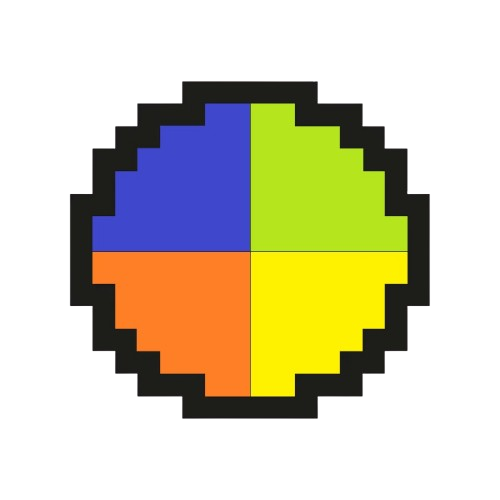
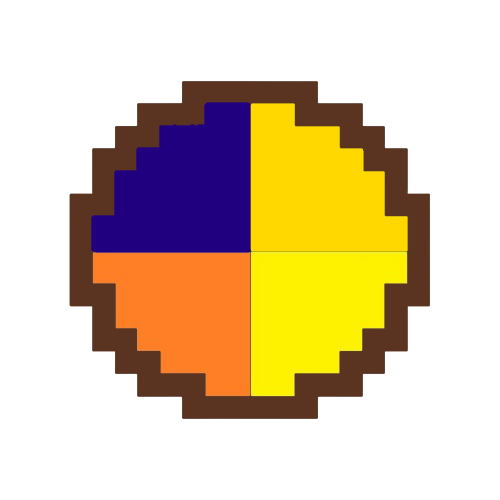
TODO: inv + "press [e]" kész: bevetés, megöntözés, shop megnyitás, alvás funkció meghívása(tbc.)

Changed region(s): [[0.12, 0.15, 0.87, 0.84]]

diff --git a/js files/main.js b/js files/main.js
@@ -2,7 +2,10 @@
 import {DrawGrid, DrawGridFirst, GridLista, canvas, ctx, DrawGridByCordsFirst} from './canvas.js';
 import {Player} from './player.js';
 import {Grid} from './grid.js';
+import {displayTime} from './tets copy.js';
 
+let hasSlept = false;
+let hasPressed = false;
 let character =  new Player(canvas.width / 2, canvas.height / 2, 35,35);
 let gridlist = GridLista();
 let basicGrids = [];
@@ -10,11 +13,23 @@ let keyState = {
     right: false,
     left: false,
     up: false,
-    down: false
+    down: false,
+    e: false
 };
+/// IDŐ, SHOP, ALVÁS, INVENTORY, COMMAND BAR
+
+
+
 /// Telik az idő
+/// minden új napnál van egy másodpercszámláló
+
+/// az elmentett új másodpercnyivel ugrik az óramutató oldal betöltésekor
+/// van egy összesmásodpercszámláló -> növényekhez
 
 window.onload = () => {
+    /// idő elindul ! de elmentett napnál kezdi (minden nap végén mentés) 
+    setInterval(displayTime, 1000);
+    setInterval(GridTime,1000);
     ///
     DrawGridFirst(10,2,50);
     DrawGridByCordsFirst(960,120,175);
@@ -35,6 +50,24 @@ window.onload = () => {
         if (e.key === 'ArrowDown' || e.key === 's') {
             keyState.down = true;
         }
+        
+    });
+    document.addEventListener('keydown', (s) => {
+        if (s.key === 'e'){
+            let selectedGrid = decideGrid();
+            if (selectedGrid != null){
+                if (selectedGrid.StartX === 960 && selectedGrid.StartY === 170){
+                    openShop();
+                }
+                else if(selectedGrid.StartX === 1075 && selectedGrid.StartY === 625){
+                    sleepAway(); 
+                }
+                else{
+                    let gridFarm = SetGridProperties(selectedGrid);
+                    gridlist.push(gridFarm);
+                }
+            }
+        }
     });
     document.addEventListener('keyup', (e) => {
         if (e.key === 'ArrowRight' || e.key === 'd') {
@@ -49,9 +82,18 @@ window.onload = () => {
         if (e.key === 'ArrowDown' || e.key === 's') {
             keyState.down = false;
         }
+
     });
     LoopEverything();
 };
+
+function GridTime(){
+    gridlist.forEach(grid => {
+        if (grid.virag != null){
+            grid.ido++;
+        }
+    });
+}
 
 function getCharactergrids(){
     const coveredGrids = [];
@@ -83,6 +125,7 @@ function getCharactergrids(){
 }
 
 function decideGrid(){
+    let grid = null;
     let coveredGrids = getCharactergrids();
 
     if (coveredGrids.length > 0){
@@ -99,6 +142,7 @@ function decideGrid(){
         for (let i = 0; i < gridlist.length; i++){
          if (gridlist[i].StartX == maxGrid.StartX && gridlist[i].StartY == maxGrid.StartY ){
                 gridlist[i].kivalasztott = true;
+                grid = gridlist[i];
          }
          else{
             gridlist[i].kivalasztott = false;
@@ -113,6 +157,28 @@ function decideGrid(){
            } 
     }
 
+    basicGrids.forEach(gridBasic => {
+        let overlayX = false;
+        let overlayY = false;
+
+        let bottomY = character.y+character.height;
+        if (character.y <= gridBasic.StartY && bottomY >= gridBasic.EndY ){
+            overlayY = true;
+        }
+        let lastX = character.x + character.width;
+        if (lastX >= gridBasic.StartX && character.x <= gridBasic.EndX){
+            overlayX = true;
+        }
+
+
+        if (overlayY && overlayX){
+            grid = gridBasic;
+
+        }
+       
+    });
+    
+    return grid;
 }
 
 function calculateSize(grid){
@@ -143,7 +209,7 @@ function DrawGridByGrid(){
     gridlist.forEach(grid => {
         if(grid.kivalasztott == true){
             ctx.lineWidth = 5;
-            ctx.strokeStyle = "#645606";
+            ctx.strokeStyle = "#9dd1e7";
         }
         DrawGrid(grid);
     });
@@ -171,90 +237,89 @@ function moveCharacter() {
 
 function openShop(){
     //// sütik elmentése !!
-
     window.open('shop.html');
 }
 
 function sleepAway(){
     // idő ugrik, annyit hogy reggelre egészüljön ki az eltelt másodpercek, óraugrik
     // napszámláló nől
-    console.log("sleeping...");
+    console.log("Sleeping");
 }
 
-function activeGrid(){
-    let pressed = false;
-    basicGrids.forEach(grid => {
-        let overlayX = false;
-        let overlayY = false;
-        
-        let bottomY = character.y+character.height;
-        if (character.y <= grid.StartY && bottomY >= grid.EndY ){
-            overlayY = true;
-        }
-        let lastX = character.x + character.width;
-        if (lastX >= grid.StartX && character.x <= grid.EndX){
-            overlayX = true;
-        }
-        
-        
-        if (overlayY && overlayX){
-            document.addEventListener('keydown', (e) =>
-            { 
-                if (grid.StartX == 1015 && grid.StartY == 170)
-                {
-                    if (e.key === 'e'){
-                        openShop();
-                    }
-                }
-                
-                
-            });
-          
-            document.addEventListener('keydown', (e) => {
-                if (grid.StartX == 1075 && grid.StartY == 625  && e.key === 'e'){
-                    pressed = true;
-                }
-            })
 
 
-//// TODO/!
-            console.log(pressed);
-            if (pressed == true){
-                sleepAway();
-            }
-            
-            
-        }
-    });
-}
+
 
 function drawCharacter() {
     ctx.fillStyle = 'red';
     ctx.fillRect(character.x,character.y,character.width,character.height);
 }
 
+function SetGridProperties(grid){
+    if (grid.bevetve == false){
+        grid.bevetve = true;
+        return grid;
+    }
+    else if(grid.ontozve === false){
+        grid.ontozve = true;
+        return grid;
+    }
+    else if(grid.virag == null){
+        // nyíljon meg az inv, clickel döntsön virágot, azt a virágot kapja a grid
+        grid.ido = 0;
+        return grid;
+    }
+    else if(grid.ido === grid.virag.ido){
+        grid.bevetve = false;
+        grid.virag = null;
+        grid.ontozve = false;
+        grid.ido = 0;
+        // coin += virag.ertek
+        return grid;
+    }
+}
+
+    
+    
 
 
 function LoopEverything(){
 
     /// canvas letörlése
-    ctx.clearRect(0,0,canvas.width,canvas.height);
 
+    ctx.clearRect(0,0,canvas.width,canvas.height);
     //// minden létező grid megrajzolása    -> ide kell majd mentés szerint megjeleníteni a növényeket(?)
     DrawGridByGrid();
     DrawGridByCordsFirst(960,120,175);
     DrawGridByCordsFirst(1075,575,50);
-
+    
     /// karakterre vonatkozó frissülő adatok
     moveCharacter();
     drawCharacter();
     
     //// aktív grid megkeresése, kijelölése
     decideGrid();
+    //// TODO: NE JELÖLJÖN KI TÖBBET EGYSZERRE
+
     /// shop megnyitás + alvás
-    activeGrid();
+    if (hasSlept == true){
+        sleepAway();
+        hasSlept = false;
+    }
+    
+    // if(hasPressed == true){
+       
+    //     let newGrid = SetGridProperties(selectedGrid);
+    //     console.log(hasPressed);
+    //         hasPressed = false;
 
-
+    //     for(let i = 0; i < gridlist.length; i++){
+    //         if (gridlist[i].StartX == newGrid.StartX && gridlist[i].StartY == newGrid.StartY){
+    //             gridlist[i] = newGrid;
+    //         }
+    //     }
+    // }
+    ////
     /// Loop
     requestAnimationFrame(LoopEverything);
 }
@@ -268,4 +333,4 @@ function LoopEverything(){
 //// Coin
 //// Terület vétel -> nem rajzolja újra az egészet
 //// Cookie system
-/// Event listener (E) + kiírás
+/// Event listener (E) + kiírás 

diff --git a/js files/canvas.js b/js files/canvas.js
@@ -4,8 +4,8 @@ import {Grid} from './grid.js';
 export let canvas = document.getElementById("canvas");
 export let ctx = canvas.getContext("2d");
 export let gridLista = [];
-
-
+const SownGround = document.getElementById("sown");
+const WateredGround = document.getElementById("watered");
 
 let grid = {
     width : 50,
@@ -44,17 +44,19 @@ export function DrawGridByCordsFirst(x,y,width){
 export function DrawGrid(grid){
     let x = grid.x;
     let y = grid.y;
+    if (grid.bevetve === true){
+        ctx.drawImage(SownGround,grid.StartX,grid.EndY);  
+    }
+    if (grid.ontozve === true){
+        ctx.drawImage(WateredGround,grid.StartX,grid.EndY);  
+    }
     if (grid.kivalasztott == true){
         ctx.strokeRect(grid.StartX,grid.EndY,grid.width,grid.height);
         ctx.lineWidth = 2;
         ctx.strokeStyle = "#67953e";
         ctx.strokeRect(grid.StartX,grid.EndY,grid.width,grid.height);
-        
-        // if (grid.bevetve == true){
-        //     ctx.fillStyle = "#432924";
-        //     //fillRect
-        // }
     }
+    
     else{
         ctx.moveTo(x,y);
         ctx.lineTo(x+grid.width,y);

diff --git a/js files/tets copy.js b/js files/tets copy.js
@@ -1,0 +1,30 @@
+let secs = 0;
+let days = 0;
+
+
+export function displayTime() {
+    secs++;
+    return secs;
+    }
+
+export function Daycounter() {
+    if ((secs % 300) == 0) {
+        days++;
+    }
+    return days;
+}
+
+export function jumpintime(){
+    document.getElementById("clockarm").style.animation =  "none";
+    document.getElementById("clockarm").style.animation =  "clockarm 300s infinite";
+}
+
+
+
+
+/// function ElteltIdo -> visszaadja az eltelt másodpercek számát
+/// function időugrás(ugrott_masodpercek) -> meghívásakor ugorjon ugrott_masodpercek másodpercet az óramutató,
+/// növelje a napszálálót ha szükség van rá
+/// számlálja a napokat folyamat
+
+/// function ami visszaadja napokat 

diff --git a/index.html b/index.html
@@ -10,8 +10,17 @@
 <body>
     <!-- canvas frame -->
     <img src="images/title.png" width="250px" id="img-h1">
-    <img src="images/frame.jpg" alt="" style="position: absolute; left:186px;top:140px" width="1195" height="750">
+    <img src="images/frame.jpg" alt="" id="frame" width="1195" height="750">
     <canvas id="canvas" width="1150" height="700"></canvas>
+    
+    
+    <div style="display:none;">
+        <img id="sown" width="50" height="50" src="images/sownGround.png">
+    </div>
+    <div style="display:none;">
+        <img id="watered" width="50" height="50" src="images/wateredGround.png">
+    </div>
+    
     <script src="js files/main.js" type="module"></script>
 <div>
 

diff --git a/js files/grid.js b/js files/grid.js
@@ -14,6 +14,7 @@ export class Grid
         this.bevetve = false;
         this.virag = null;
         this.ontozve = false;
+        this.haspressed = false;
 
         this.kivalasztott = false;
 

diff --git a/styles/style.css b/styles/style.css
@@ -13,3 +13,9 @@ body{
     position:fixed;
     left:835px;
 }
+
+#frame{
+    position: absolute; 
+    left:186px;
+    top:140px
+}
